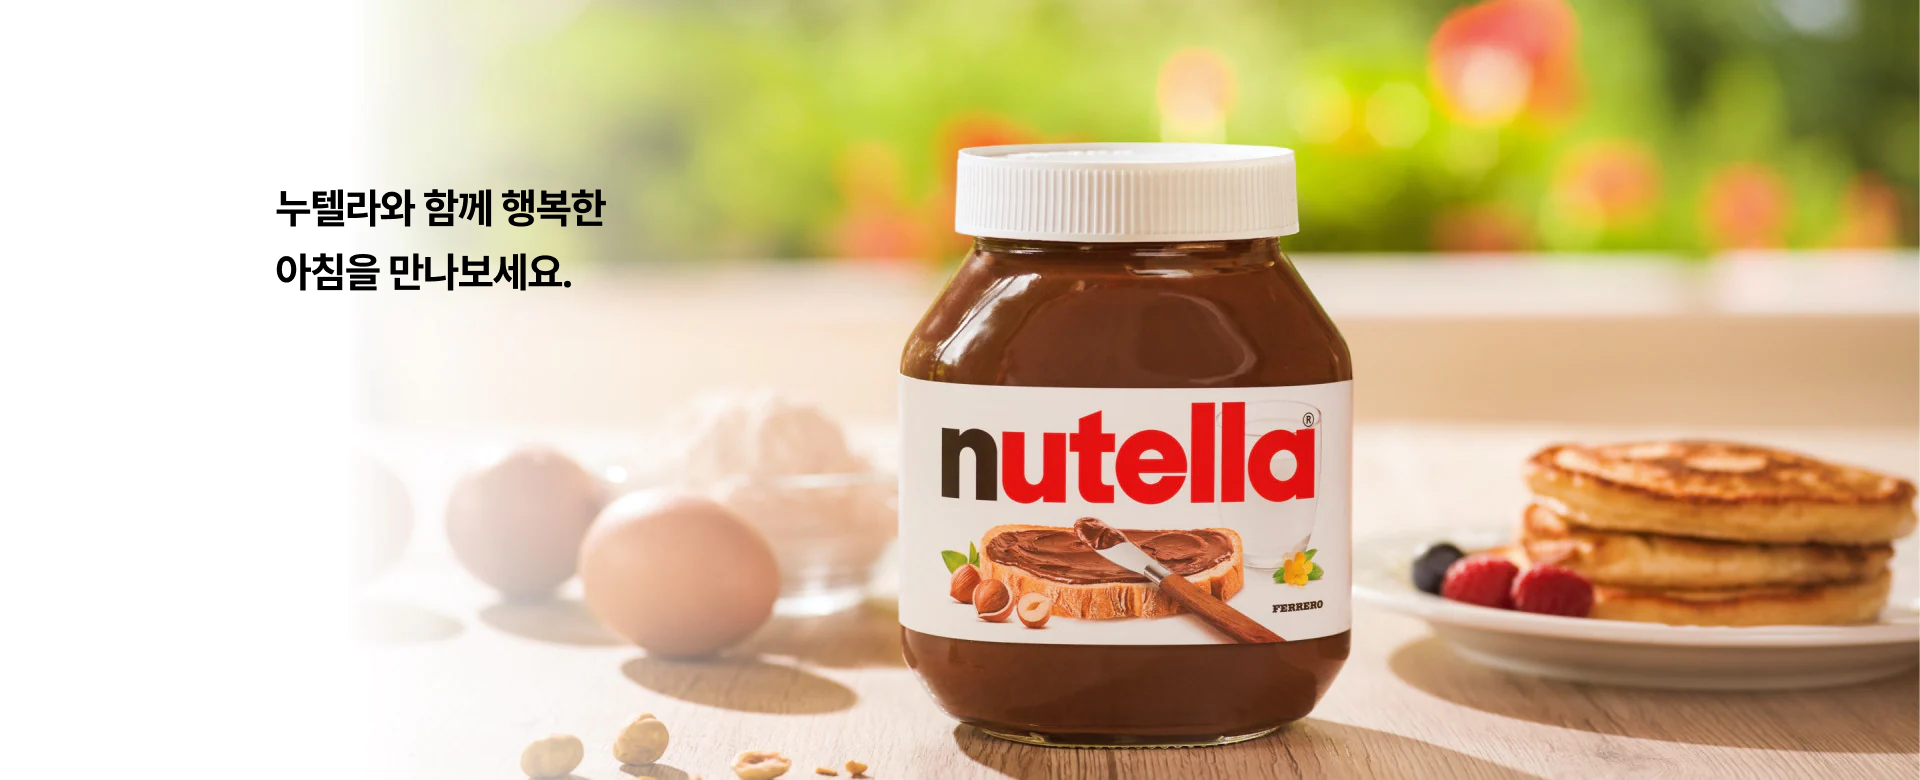
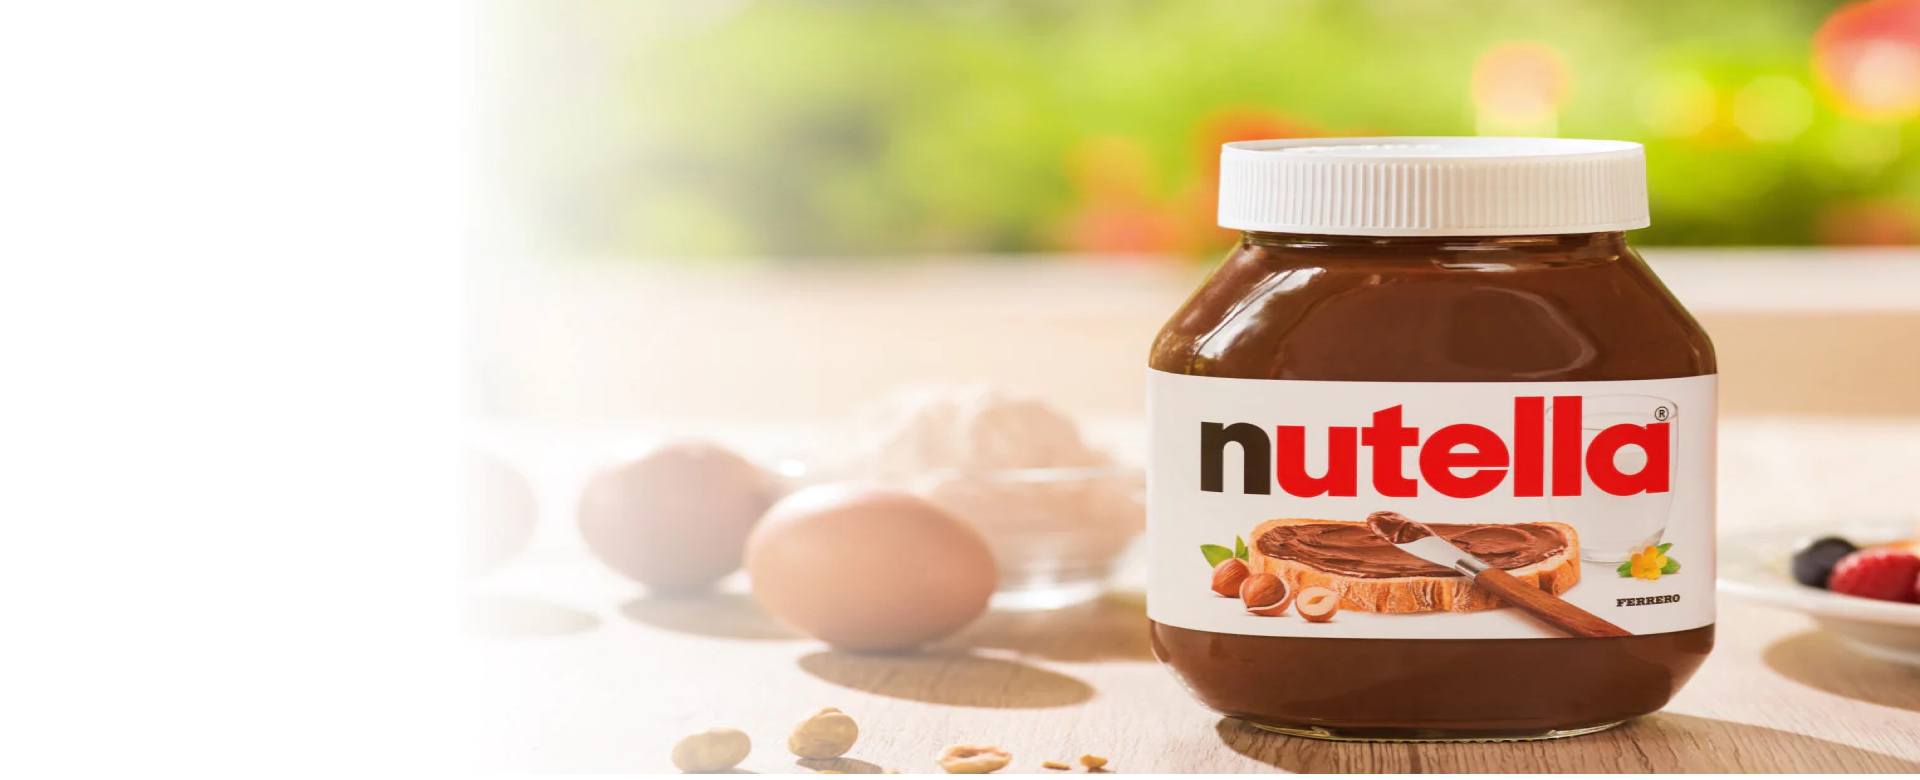
nutella연습

diff --git a/html/nutella.html b/html/nutella.html
@@ -7,8 +7,6 @@
     <meta name="viewport" content="width=device-width, initial-scale=1.0">
     <title>nutellanew</title>
     <link rel="stylesheet" type="text/css" href="/ex/css/nutella.css">
-    <!-- <link rel="stylesheet" media="all and (max-width: 1024px)" href="/ex/css/nutellatstyle.css"> -->
-    <!-- <link rel="stylesheet" media="all and (max-width: 430px)" href="/ex/css/nutellamstyle.css"> -->
 </head>
 
 <body>
@@ -73,6 +71,9 @@
             <div class="swiper-wrapper">
                 <div class="swiper-slide">
                     <div class="mainvisual01">
+                        <h2>
+                            누텔라와 함께 행복한 아침을 만나보세요.
+                        </h2>
                         <video controls autoplay muted>
                             <source src="https://vod.ferrero.com/bdi/1c53ff41539cd742/kr/video-corea-nutella.mp4"
                                 type="video/mp4">
@@ -82,19 +83,17 @@
                 <div class="swiper-slide">
                     <div class="mainvisual02">
                         <div class="inner">
-                            <img src="/ex/images/nutella/main02.png" alt="main1-2">
-                            <!-- <h1>
+                            <h1>
                                 열대 우림 동맹 인증<br>
                                 UTZ 2020 인증을 받은 코코아만 사용합니다.
-                            </h1> -->
+                            </h1>
                         </div>
                     </div>
                 </div>
                 <div class="swiper-slide">
                     <div class="mainvisual03">
                         <div class="inner">
-                            <img src="/ex/images/nutella/main03.png" alt="main1-3">
-                            <!-- <h2> RSPO의 7가지 원칙</h2>
+                            <h2> RSPO의 7가지 원칙</h2>
                             <h3>
                                 1. 윤리적이고 투명하게 행동한다.<br>
                                 2. 합법적으로 행동하며 권리를 존중한다.<br>
@@ -107,7 +106,7 @@
                             <h1>
                                 누텔라는 PSPO 인증을 받은 팜유만을 사용하며,<br>
                                 산림의 황폐화를 막기 위해 노력합니다.
-                            </h1> -->
+                            </h1>
                         </div>
                     </div>
                 </div>

diff --git a/css/nutella.css b/css/nutella.css
@@ -123,10 +123,11 @@ h1 {
     width: 200px;
     height: 70px;
     overflow: hidden;
-    background: url(/ex/images/nutella/nutellalogo.png) no-repeat 50% 50% / 100%;
+    background: url(/images/nutella/nutellalogo.png) no-repeat 50% 50% / 100%;
 }
 .main01{
     width: 100%;
+    height: 800px;
     display: flex;
     justify-content: center;
     background-color: #FFF6D4;
@@ -141,32 +142,40 @@ h1 {
 .main01 .mainvisual01{
     background: url(/ex/images/nutella/main01.png) 50% 50% no-repeat;
     width: 100%;
-    height: 100%;
+    height: 800px;
 }
-.main01 .mainvisual01 > video{
-    width: 40%;
-    /* padding: 200px 0; */
-    padding: 351px 0 52px 100px;
+
+.main01 .mainvisual01 h2{
+    font-size: 40px;
+    padding-top: 170px;
+    padding-left: 130px;
 }
-/* .main01 .mainvisual02 .inner h1{
+.main01 .mainvisual01 video{
+    width: 45%;
+    padding: 50px 0 300px 100px;
+}
+
+.main01 .mainvisual02 .inner h1{
     height: 100px;
     vertical-align: bottom;
     padding: 350px 100px;
-} */
-.main01 .mainvisual02 .img{
-    width: 100%;
-    height: 100%;
+}
+.main01 .mainvisual02 .inner{
+    background: url(/ex/images/nutella/main02.png) 50% 50% no-repeat;
+    background-size: cover;
+    height: 800px;
 }
 .main01 .mainvisual03 .inner{
-    width: 100%;
-    height: 100%;
+    background: url(/ex/images/nutella/main03.png) 50% 50% no-repeat;
+    background-size: cover;
+    height: 800px;
 }
-/* .main01 .mainvisual03 .inner h2{
+.main01 .mainvisual03 .inner h2{
     color: #fff;
     font-size: 40px;
     font-weight: 400;
     display: flex;
-    padding: 40px;
+    padding: 50px;
 }
 
 .main01 .mainvisual03 .inner h3{
@@ -179,7 +188,7 @@ h1 {
 .main01 .mainvisual03 .inner h1{
     font-size: 40px;
     padding-left: 50px;
-} */
+}
 .main02{
     display: flex;
     justify-content: center;
